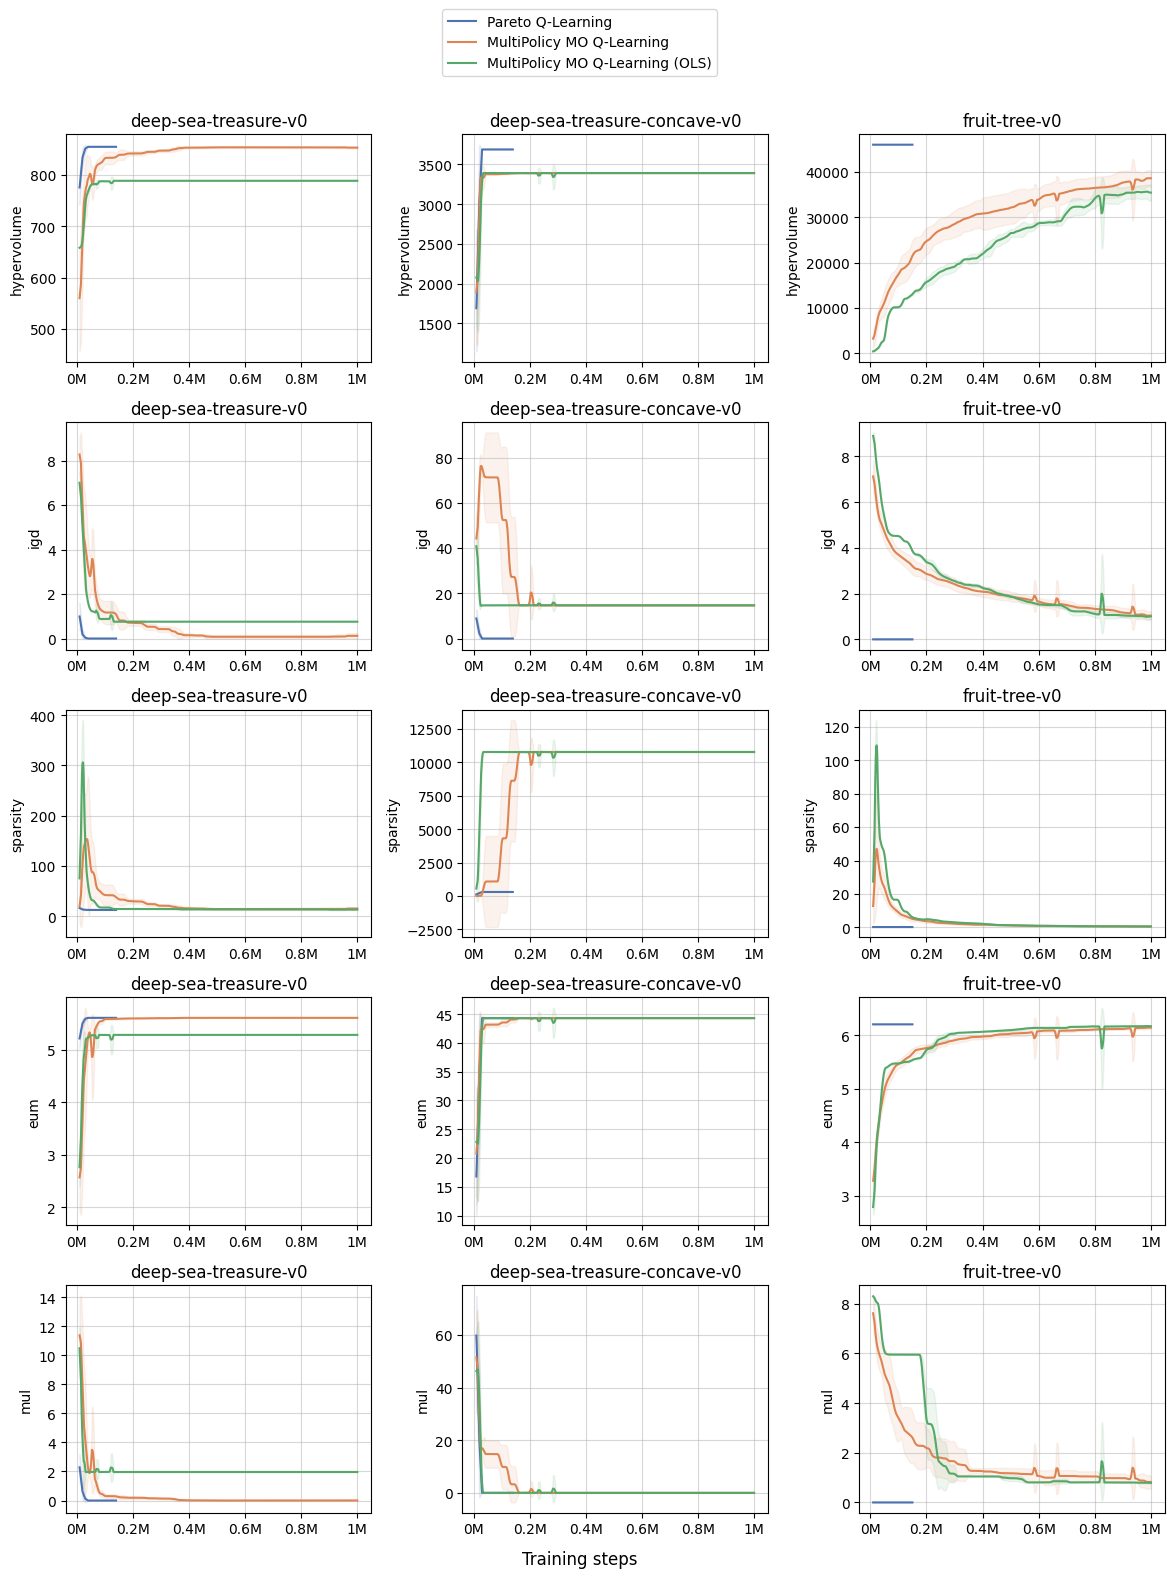
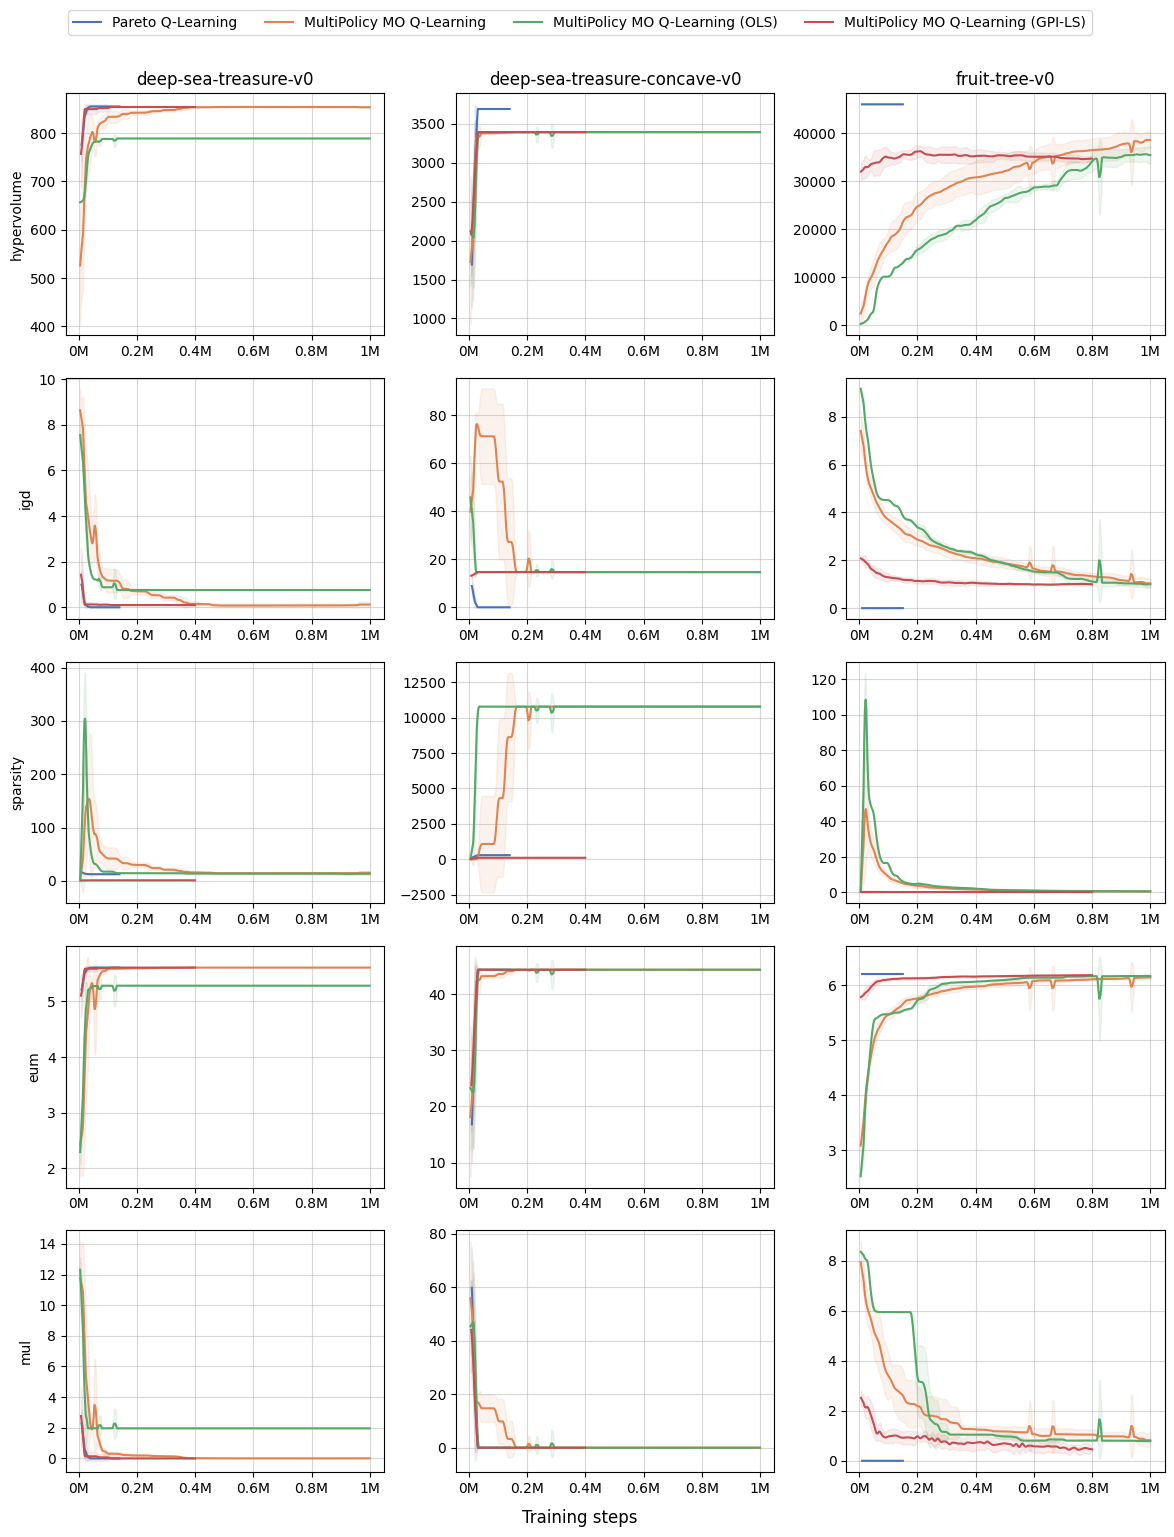
Update plots and command

diff --git a/README.md b/README.md
@@ -269,13 +269,14 @@ python -m openrlbenchmark.rlops \
 
 ```shell
 python -m openrlbenchmark.rlops \
---filters '?we=openrlbenchmark&wpn=MORL-Baselines&ceik=env_id&cen=algo&metrics=eval/hypervolume&metrics=eval/igd&metrics=eval/sparsity&metrics=eval/eum&metrics=eval/mul' \
+  --filters '?we=openrlbenchmark&wpn=MORL-Baselines&ceik=env_id&cen=algo&metrics=eval/hypervolume&metrics=eval/igd&metrics=eval/sparsity&metrics=eval/eum&metrics=eval/mul' \
   'Pareto Q-Learning?cl=Pareto Q-Learning' \
   'MultiPolicy MO Q-Learning?cl=MultiPolicy MO Q-Learning' \
   'MultiPolicy MO Q-Learning (OLS)?cl=MultiPolicy MO Q-Learning (OLS)' \
+  'MultiPolicy MO Q-Learning (GPI-LS)?cl=MultiPolicy MO Q-Learning (GPI-LS)' \
   --env-ids deep-sea-treasure-v0 deep-sea-treasure-concave-v0 fruit-tree-v0 \
   --pc.ncols 3 \
-  --pc.ncols-legend 1 \
+  --pc.ncols-legend 4 \
   --pc.xlabel 'Training steps' \
   --pc.ylabel '' \
   --output-filename morl_deterministic_envs/ \
